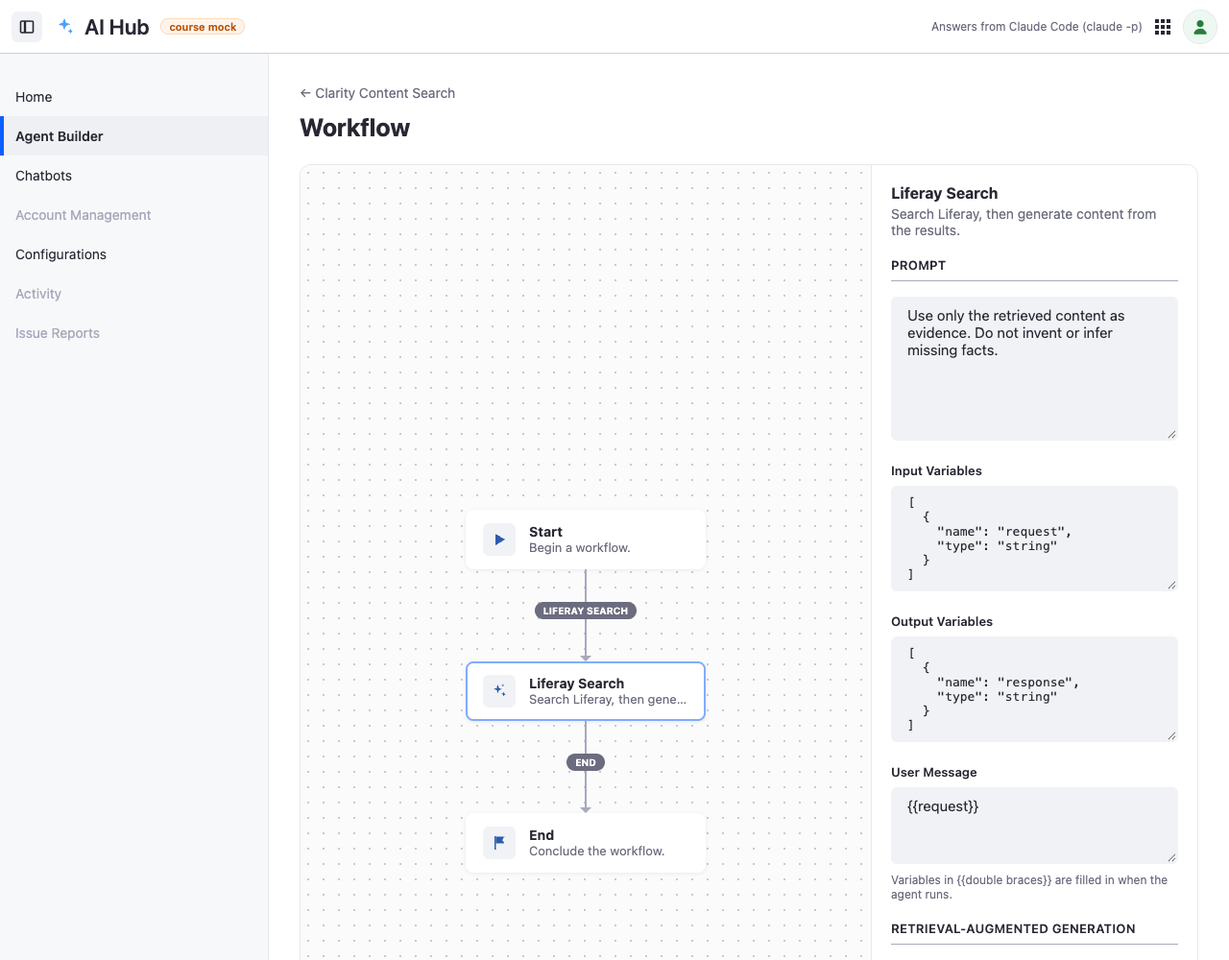
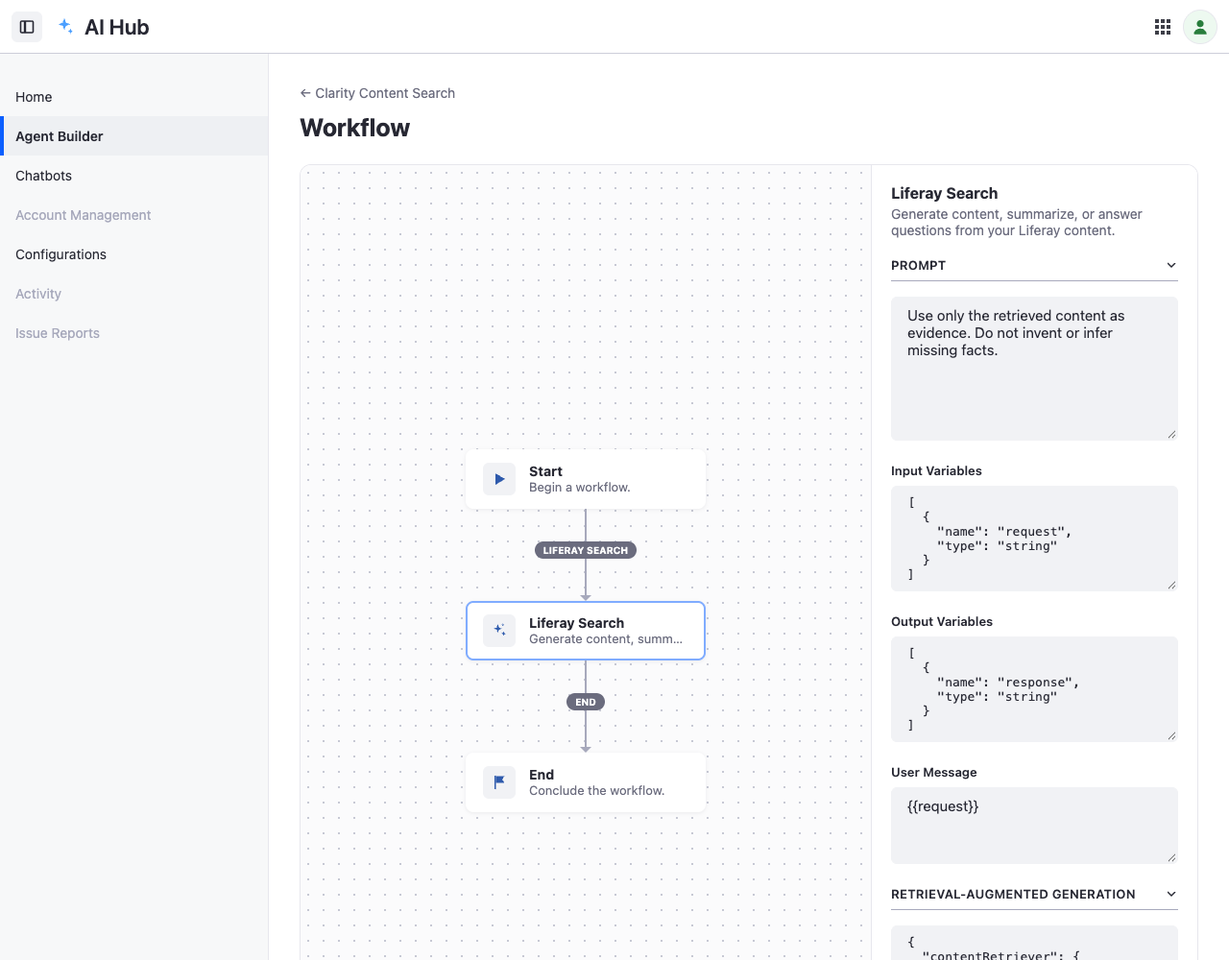
AI Hub mock: match AI Hub's screens
Following the masterclass's AI Hub screenshots: a language selector
beside translatable fields, a Data Sources card on agents, Avatar and
Notification Message on chatbots, a clear-all icon on Assigned Agents,
Transition Label edges and an empty RAG on LLM workflows, collapsible
panel sections, and API Credentials with Copy and Reveal. The header
loses the mock badge and CLI label. What the mock doesn't have is
greyed out; Add It to Your Site, Try It, and the Service URL, AI
provider and Test Connection (now a Course Mock card) are labelled
Course mock.

diff --git a/bonus/ai-hub/public/console.js b/bonus/ai-hub/public/console.js
@@ -10,17 +10,20 @@ const ICONS = {
 	end: '<svg width="16" height="16" viewBox="0 0 16 16" fill="currentColor"><path d="M3 1h1.5v14H3z"/><path d="M4.5 1.5h9l-2.5 3.5 2.5 3.5h-9z"/></svg>',
 	sparkle: '<svg width="18" height="18" viewBox="0 0 24 24" fill="currentColor"><path d="M10 3l1.6 4.6L16 9l-4.4 1.4L10 15l-1.6-4.6L4 9l4.4-1.4z"/><path d="M18 13l.9 2.1L21 16l-2.1.9L18 19l-.9-2.1L15 16l2.1-.9z"/><path d="M17 2l.6 1.4L19 4l-1.4.6L17 6l-.6-1.4L15 4l1.4-.6z"/></svg>',
 	start: '<svg width="16" height="16" viewBox="0 0 16 16" fill="currentColor"><path d="M4 2l10 6-10 6z"/></svg>',
+	clear: '<svg width="16" height="16" viewBox="0 0 16 16" fill="none" stroke="currentColor" stroke-width="1.4"><circle cx="8" cy="8" r="6.3"/><path d="M5.6 5.6l4.8 4.8M10.4 5.6l-4.8 4.8"/></svg>',
+	copy: '<svg width="14" height="14" viewBox="0 0 16 16" fill="none" stroke="currentColor" stroke-width="1.5"><rect x="3.5" y="3" width="9" height="11.5" rx="1.2"/><path d="M6 3V1.8h4V3"/></svg>',
+	chevron: '<svg width="14" height="14" viewBox="0 0 16 16" fill="none" stroke="currentColor" stroke-width="1.6"><path d="M3.5 6l4.5 4.5L12.5 6"/></svg>',
 	workflow: '<svg width="16" height="16" viewBox="0 0 16 16" fill="none" stroke="currentColor" stroke-width="1.5"><rect x="1" y="1.5" width="5" height="4" rx="1"/><rect x="10" y="10.5" width="5" height="4" rx="1"/><path d="M3.5 5.5v3a2 2 0 002 2h4.5"/></svg>',
 };
 
 const TYPES = {
 	answer: {
-		edges: ['LLM', 'END'], label: 'LLM agent', node: 'LLM', nodeHint: 'Generate content, summarize or answer.',
+		edges: ['TRANSITION LABEL', 'TRANSITION LABEL'], label: 'LLM agent', node: 'LLM', nodeHint: 'Generate content, summarize, or answer questions.',
 		rag: '[]',
 	},
 	search: {
 		edges: ['LIFERAY SEARCH', 'END'], label: 'Liferay Search agent', node: 'Liferay Search',
-		nodeHint: 'Search Liferay, then generate content from the results.',
+		nodeHint: 'Generate content, summarize, or answer questions from your Liferay content.',
 	},
 };
 
@@ -41,9 +44,6 @@ async function api(method, path, body) {
 
 async function load() {
 	state = await api('GET', '/api/state');
-	document.getElementById('provider').textContent = state.runtime.cli
-		? `Answers from ${state.runtime.cliLabel}`
-		: 'No agent CLI found: answers list the search results';
 }
 
 function go(hash, {replace} = {}) {
@@ -64,14 +64,26 @@ function flash(text, ok = true) {
 	}
 }
 
-const field = (id, label, value, {hint = '', readonly = false, required = false, textarea = false, code = false} = {}) => `
-	<div class="field">
+// The language selector AI Hub shows beside translatable fields. The mock is English only, so it's greyed out.
+const LOCALE = `<button type="button" class="locale" disabled title="Not in the course mock: English only"><span class="flag" aria-label="English (United States)"></span>
+	<svg width="10" height="14" viewBox="0 0 10 14" fill="currentColor"><path d="M5 1l4 5H1zM5 13L1 8h8z"/></svg></button>`;
+
+const field = (id, label, value, {disabled = false, hint = '', locale = false, placeholder, readonly = false, required = false, textarea = false, code = false} = {}) => {
+	const attrs = `id="${id}" placeholder="${esc(placeholder ?? (code ? '' : label))}" ${readonly ? 'readonly' : ''} ${disabled ? 'disabled' : ''}`;
+	const control = textarea
+		? `<textarea ${attrs} class="${code ? 'code' : ''}" ${code ? `rows="${String(value).split('\n').length}"` : ''}>${esc(value)}</textarea>`
+		: `<input type="text" ${attrs} value="${esc(value)}">`;
+
+	return `
+	<div class="field${disabled ? ' soon' : ''}"${disabled ? ' title="Not in the course mock"' : ''}>
 		<label for="${id}" class="${required ? 'req' : ''}">${label}</label>
-		${textarea
-			? `<textarea id="${id}" class="${code ? 'code' : ''}" ${code ? `rows="${String(value).split('\n').length}"` : ''} ${readonly ? 'readonly' : ''}>${esc(value)}</textarea>`
-			: `<input type="text" id="${id}" value="${esc(value)}" ${readonly ? 'readonly' : ''}>`}
+		${locale ? `<div class="with-locale">${control}${LOCALE}</div>` : control}
 		${hint ? `<span class="hint">${hint}</span>` : ''}
 	</div>`;
+};
+
+// A card that only the course mock has, marked so it isn't mistaken for AI Hub.
+const MOCK = '<span class="mock-pill" title="Not in Liferay AI Hub: added for the course">Course mock</span>';
 
 const toggle = (id, label, checked) =>
 	`<label class="switch"><input type="checkbox" id="${id}" ${checked ? 'checked' : ''}><span class="track"></span>${label}</label>`;
@@ -183,19 +195,23 @@ function agentEditor(erc, newType) {
 		<h1>${existing ? esc(agent.title) : `New ${type.label}`}</h1>
 		<div class="card">
 			<div class="card-head"><h2>Details</h2>${toggle('enabled', 'Enable Agent', agent.enabled)}</div>
-			${field('title', 'Title', agent.title, {required: true})}
-			${field('erc', 'External Reference Code', agent.erc, {hint: existing ? '' : 'Letters, digits, - and _. A chatbot\'s Assigned Agents refer to it.', readonly: Boolean(existing), required: true})}
-			${field('description', 'Description', agent.description, {hint: 'What the agent is for. In AI Hub, the chatbot reads it to decide when to call the agent.', required: true, textarea: true})}
+			${field('title', 'Title', agent.title, {locale: true, required: true})}
+			${field('erc', 'External Reference Code', agent.erc, {readonly: Boolean(existing), required: true})}
+			${field('description', 'Description', agent.description, {required: true, textarea: true})}
 		</div>
 		<div class="card">
 			<div class="card-head"><h2>Workflow</h2>
 				<button class="btn" id="editWorkflow" ${existing ? '' : 'disabled'}>${ICONS.workflow} Edit Workflow</button></div>
-			<p class="sub">Every agent runs its own workflow. Edit the workflow to define what this agent does when it runs.${existing ? '' : ' Save the agent first.'}</p>
+			<p class="sub">Every agent runs its own workflow. Edit the workflow to define what this agent does when it runs.</p>
 		</div>
 		<div class="card">
 			<h2 style="margin-bottom:20px">Variables</h2>
 			${field('inputVars', 'Input Variables', inputVariables(agent.type).join(','), {readonly: true, required: true})}
 			${field('outputVar', 'Output Variable', 'response', {readonly: true, required: true})}
+		</div>
+		<div class="card">
+			<h2 style="margin-bottom:20px">Data Sources</h2>
+			${field('sources', 'Assigned Sources', '', {disabled: true, placeholder: ''})}
 		</div>
 		<div class="row"><div class="actions"><button class="btn primary" id="save">Save</button><button class="btn" id="cancel">Cancel</button></div>
 			${existing ? '<button class="btn danger" id="delete">Delete</button>' : ''}</div>
@@ -279,20 +295,19 @@ function workflowEditor(erc) {
 			return;
 		}
 
-		const rag = agent.type === 'search' ? JSON.stringify({contentRetriever: agent.rag}, null, 2) : type.rag;
+		// As AI Hub writes it: the retriever's key first, and a blueprint only when there is one.
+		const retriever = agent.rag ? {key: agent.rag.key, ...(agent.rag.blueprintExternalReferenceCode ? {blueprintExternalReferenceCode: agent.rag.blueprintExternalReferenceCode} : {})} : null;
+		const rag = agent.type === 'search' ? JSON.stringify({contentRetriever: retriever}, null, 2) : type.rag;
 
 		panel.innerHTML = `
 			<p class="node-name">${type.node}</p><p class="sub" style="margin-bottom:20px">${type.nodeHint}</p>
-			<h4>Prompt</h4>
+			<h4>Prompt ${ICONS.chevron}</h4>
 			<div class="field"><textarea id="prompt" style="min-height:150px">${esc(agent.prompt)}</textarea></div>
 			${field('inVars', 'Input Variables', variablesJSON(inputVariables(agent.type)), {code: true, readonly: true, textarea: true})}
 			${field('outVars', 'Output Variables', variablesJSON(['response']), {code: true, readonly: true, textarea: true})}
-			${field('userMessage', 'User Message', agent.userMessage, {hint: 'Variables in {{double braces}} are filled in when the agent runs.', textarea: true})}
-			<h4>Retrieval-Augmented Generation</h4>
-			${field('rag', 'RAG Configuration', rag, {code: true, readonly: agent.type !== 'search', textarea: true,
-				hint: agent.type === 'search'
-					? '"key": "liferay" searches your Liferay as Guest. Set blueprintExternalReferenceCode to search through a Search Blueprint, or leave it empty.'
-					: 'An LLM agent retrieves nothing: it writes from its input variables.'})}
+			${field('userMessage', 'User Message', agent.userMessage, {placeholder: '', textarea: true})}
+			<h4>Retrieval-Augmented Generation ${ICONS.chevron}</h4>
+			<div class="field"><textarea id="rag" class="code" rows="${rag.split('\n').length}" ${agent.type === 'search' ? '' : 'readonly'} aria-label="Retrieval-Augmented Generation">${esc(rag)}</textarea></div>
 			<div class="actions"><button class="btn primary" id="saveNode">Save</button><button class="btn" id="cancelNode">Cancel</button></div>`;
 
 		document.getElementById('cancelNode').onclick = () => go(`agents/edit/${encodeURIComponent(agent.erc)}`);
@@ -357,26 +372,29 @@ function chatbotEditor(erc) {
 		<h1>${existing ? esc(bot.title) : 'New Chatbot'}</h1>
 		<div class="card">
 			<div class="card-head"><h2>Details</h2>${toggle('enabled', 'Enable Chatbot', bot.enabled)}</div>
-			${field('title', 'Title', bot.title, {required: true})}
-			${field('erc', 'External Reference Code', bot.erc, {hint: 'Write it down: your site\'s Click to Chat names the chatbot by it.', readonly: Boolean(existing), required: true})}
+			${field('title', 'Title', bot.title, {locale: true, required: true})}
+			${field('erc', 'External Reference Code', bot.erc, {readonly: Boolean(existing), required: true})}
 			${field('description', 'Description', bot.description || '', {textarea: true})}
+			<div class="field soon" title="Not in the course mock"><span class="label">Avatar</span><button type="button" class="btn" disabled>Select File</button>
+				<span class="hint">Upload a jpeg, jpg, png no larger than 500 KB.</span></div>
 			<div class="field"><span class="label">Assigned Agents</span><div class="chips" id="chips"></div></div>
-			${field('placeholder', 'Placeholder Message', bot.placeholderMessage || '', {hint: 'The hint in the visitor\'s empty message box, such as "Ask a question".'})}
-			${field('intro', 'Intro Message', bot.introMessage, {hint: 'The first message visitors see when they open the chat.', textarea: true})}
+			${field('notification', 'Notification Message', '', {disabled: true, locale: true})}
+			${field('placeholder', 'Placeholder Message', bot.placeholderMessage || '', {locale: true})}
+			${field('intro', 'Intro Message', bot.introMessage, {locale: true, textarea: true})}
 		</div>
 		<div class="row"><div class="actions"><button class="btn primary" id="save">Save</button><button class="btn" id="cancel">Cancel</button></div>
 			${existing ? '<button class="btn danger" id="delete">Delete</button>' : ''}</div>
 		<div id="msg"></div>
 		${existing ? `
 		<div class="card" style="margin-top:24px">
-			<h2 style="margin-bottom:8px">Add It to Your Site</h2>
+			<div class="card-head" style="margin-bottom:8px"><h2>Add It to Your Site</h2>${MOCK}</div>
 			<p class="sub" style="margin-bottom:16px">In Liferay, turn on <strong>Click to Chat</strong> for the site, with <strong>AI Hub</strong> as the chat provider and this chatbot's ERC as the account ID. Liferay finds AI Hub through its AI Hub configuration: the credentials and Service URL in <a href="#configurations">Configurations</a>.</p>
 			${field('ctcAccount', 'Chat Provider Account ID', bot.erc, {readonly: true})}
 			<span class="label">Or, without Click to Chat: Embed Snippet</span>
 			<pre class="snippet">&lt;script src="${esc(location.origin)}/widget.js" data-chatbot="${esc(bot.erc)}" defer&gt;&lt;/script&gt;</pre>
 		</div>
 		<div class="card" id="tryIt">
-			<h2 style="margin-bottom:8px">Try It</h2>
+			<div class="card-head" style="margin-bottom:8px"><h2>Try It</h2>${MOCK}</div>
 			<p class="sub" style="margin-bottom:16px">Ask a question here first. The run log shows each step a visitor's question goes through.</p>
 			<div class="play"><input type="text" id="question" placeholder="${esc(bot.placeholderMessage || 'Ask the chatbot a question')}"><button class="btn primary" id="ask">Ask</button></div>
 			<div id="result"></div>
@@ -389,9 +407,15 @@ function chatbotEditor(erc) {
 		const name = (e) => state.agents.find((a) => a.erc === e)?.title || e;
 		const free = state.agents.filter((a) => !assigned.includes(a.erc));
 
-		chips.innerHTML = assigned.map((e) => `<span class="chip">${esc(name(e))}<button type="button" data-remove="${esc(e)}" aria-label="Remove ${esc(name(e))}">×</button></span>`).join('') +
-			(free.length ? `<select id="addAgent" aria-label="Add an agent"><option value="">${assigned.length ? 'Add another agent…' : 'Select agents…'}</option>${free.map((a) =>
-				`<option value="${esc(a.erc)}">${esc(a.title)} (${TYPES[a.type].label}${a.enabled ? '' : ', disabled'})</option>`).join('')}</select>` : '');
+		chips.innerHTML = assigned.map((e) => `<span class="chip">${esc(name(e))}<button type="button" data-remove="${esc(e)}" aria-label="Remove ${esc(name(e))}">✕</button></span>`).join('') +
+			(free.length ? `<select id="addAgent" aria-label="Add an agent"><option value=""></option>${free.map((a) =>
+				`<option value="${esc(a.erc)}">${esc(a.title)}</option>`).join('')}</select>` : '<span class="chips-fill"></span>') +
+			(assigned.length ? `<button type="button" class="chips-clear" id="clearAgents" aria-label="Remove all agents">${ICONS.clear}</button>` : '');
+
+		document.getElementById('clearAgents')?.addEventListener('click', () => {
+			assigned = [];
+			renderChips();
+		});
 
 		chips.querySelectorAll('[data-remove]').forEach((b) => b.onclick = () => {
 			assigned = assigned.filter((e) => e !== b.dataset.remove);
@@ -483,25 +507,38 @@ function chatbotEditor(erc) {
 function configurations() {
 	main.innerHTML = `
 		<h1>Configurations</h1>
-		<div style="margin:0 auto;max-width:1160px;padding-top:24px">
+		<div class="config">
 			<h2 style="margin-bottom:20px">Account Configuration</h2>
-			${field('env', 'Environment URL', state.configuration.environmentURL, {
-				hint: 'Your Liferay\'s address. The real AI Hub is a cloud service and needs a public HTTPS URL here; this mock runs on your computer, so http://localhost:8080 works.'})}
-			<hr style="border:0;border-top:1px solid var(--border);margin:24px 0">
-			<h2 style="margin-bottom:8px">API Credentials</h2>
-			<p class="sub" style="margin-bottom:20px">Your Liferay's AI Hub configuration needs them (<em>Instance Settings</em> → <em>AI Hub</em>, or its configuration file). The mock doesn't check them: they're placeholders, never a secret.</p>
-			${field('clientId', 'Client ID', CREDENTIALS.clientId, {readonly: true})}
-			${field('clientSecret', 'Client Secret', CREDENTIALS.clientSecret, {readonly: true})}
-			${field('serviceURL', 'Service URL', location.origin, {readonly: true, hint: 'Liferay\'s Click to Chat loads the chat bubble from here.'})}
-			<hr style="border:0;border-top:1px solid var(--border);margin:24px 0">
-			<h2 style="margin-bottom:20px">AI Provider</h2>
-			${field('provider', 'Answers From', state.runtime.cli ? state.runtime.cliLabel : 'None found: answers list the search results only', {readonly: true,
-				hint: 'In AI Hub, the models run in Liferay\'s cloud. In the mock, your own AI agent writes the answers, run in an empty folder. To choose another, restart the mock with AI_CLI=claude, codex, copilot, gemini or none.'})}
-			<div class="row"><div class="actions"><button class="btn primary" id="save">Save</button><button class="btn" id="cancel">Cancel</button></div>
-				<button class="btn" id="test" style="margin-top:24px">Test Connection</button></div>
+			${field('env', 'Environment URL', state.configuration.environmentURL)}
+			<hr>
+			<h2 style="margin-bottom:20px">API Credentials</h2>
+			<div class="field"><label for="clientId">Client ID</label>
+				<div class="with-locale"><input type="text" id="clientId" value="${esc(CREDENTIALS.clientId)}" readonly>
+				<button type="button" class="square" id="copyId" title="Copy" aria-label="Copy the Client ID">${ICONS.copy}</button></div></div>
+			<div class="field"><label for="clientSecret">Client Secret</label>
+				<div class="with-locale"><input type="password" id="clientSecret" value="${esc(CREDENTIALS.clientSecret)}" readonly>
+				<button type="button" class="btn" id="reveal">Reveal</button></div>
+				<span class="hint">Shown only when you choose to reveal it.</span></div>
+			<div class="actions"><button class="btn primary" id="save">Save</button><button class="btn" id="cancel">Cancel</button></div>
 			<div id="msg"></div>
+			<div class="card mock-card">
+				<div class="card-head"><h2>Course Mock</h2></div>
+				<p class="sub" style="margin-bottom:20px">Not in Liferay AI Hub. The mock runs on your computer, so <em>Environment URL</em> can be <code>http://localhost:8080</code>. The Client ID and Secret are placeholders that nothing checks.</p>
+				${field('serviceURL', 'Service URL', location.origin, {readonly: true, hint: 'Liferay\'s AI Hub configuration points here; Click to Chat loads the chat bubble from it.'})}
+				${field('provider', 'Answers From', state.runtime.cli ? state.runtime.cliLabel : 'None found: answers list the search results only', {readonly: true,
+					hint: 'In AI Hub, the models run in Liferay\'s cloud. In the mock, your own AI agent writes the answers, in an empty folder. To choose another, restart the mock with AI_CLI=claude, codex, copilot, gemini or none.'})}
+				<button class="btn" id="test">Test Connection</button>
+				<div id="testMsg"></div>
+			</div>
 		</div>`;
 
+	document.getElementById('copyId').onclick = () => navigator.clipboard?.writeText(CREDENTIALS.clientId);
+	document.getElementById('reveal').onclick = (event) => {
+		const secret = document.getElementById('clientSecret');
+
+		secret.type = secret.type === 'password' ? 'text' : 'password';
+		event.target.textContent = secret.type === 'password' ? 'Reveal' : 'Hide';
+	};
 	document.getElementById('cancel').onclick = () => route();
 	document.getElementById('save').onclick = async () => {
 		try {
@@ -514,11 +551,13 @@ function configurations() {
 		}
 	};
 	document.getElementById('test').onclick = async () => {
+		const out = document.getElementById('testMsg');
+
 		try {
-			flash((await api('POST', '/api/test-connection', {environmentURL: val('env').trim()})).message);
+			out.innerHTML = `<div class="msg ok">${esc((await api('POST', '/api/test-connection', {environmentURL: val('env').trim()})).message)}</div>`;
 		}
 		catch (error) {
-			flash(error.message, false);
+			out.innerHTML = `<div class="msg err">${esc(error.message)}</div>`;
 		}
 	};
 }

diff --git a/bonus/ai-hub/public/console.css b/bonus/ai-hub/public/console.css
@@ -29,8 +29,7 @@ svg { display: block; }
 .icon-btn { align-items: center; background: var(--field); border: 0; border-radius: 6px; color: var(--text); display: flex; height: 32px; justify-content: center; width: 32px; }
 .brand { align-items: center; display: flex; font-size: 22px; font-weight: 600; gap: 10px; }
 .sparkle { color: #4b9fff; }
-.mock { background: #fff4ec; border: 1px solid #ffd8b5; border-radius: 10px; color: #b95000; font-size: 11px; font-weight: 600; padding: 1px 8px; }
-.provider { color: var(--muted); font-size: 12px; }
+.apps { color: var(--text); cursor: default; opacity: .9; }
 .avatar { align-items: center; background: #edf9f0; border: 1px solid var(--border); border-radius: 50%; color: var(--success); display: flex; height: 36px; justify-content: center; width: 36px; }
 
 /* Sidebar */
@@ -130,3 +129,32 @@ pre.snippet { background: #1c1c24; border-radius: 6px; color: #e6e6ef; margin: 0
 .home-steps .card { margin: 0; }
 .home-steps .num { color: var(--primary); font-size: 13px; font-weight: 700; }
 .foot { color: var(--muted); font-size: 12px; margin-top: 32px; text-align: center; }
+
+/* Language selector beside translatable fields, copy and reveal buttons (AI Hub's layout) */
+.with-locale { align-items: stretch; display: flex; gap: 8px; }
+.with-locale > input, .with-locale > textarea { flex: 1; min-width: 0; }
+.locale, .square { align-items: center; align-self: flex-start; height: 40px; background: #fff; border: 1px solid #6b6c7e; border-radius: 6px; color: var(--muted); display: inline-flex; flex: 0 0 auto; gap: 10px; justify-content: center; padding: 0 14px; }
+.square { color: var(--text); cursor: pointer; width: 40px; padding: 0; }
+.locale:disabled { cursor: default; }
+.flag { background: linear-gradient(#b22234 0 14%, #fff 14% 28%, #b22234 28% 42%, #fff 42% 57%, #b22234 57% 71%, #fff 71% 85%, #b22234 85%); border-radius: 1px; display: inline-block; height: 11px; position: relative; width: 16px; }
+.flag::before { background: #3c3b6e; content: ""; height: 6px; left: 0; position: absolute; top: 0; width: 7px; }
+input[type=password] { background: #fff; border: 1px solid var(--border); border-radius: 6px; font: inherit; font-size: 15px; letter-spacing: .1em; padding: 9px 16px; width: 100%; }
+input[type=text]:read-only#clientId { background: #fff; border-color: var(--border); color: var(--text); }
+
+/* Greyed out: in AI Hub, not in the mock */
+.field.soon label, .field.soon .label, .field.soon .hint { color: #a7a9bc; }
+.field.soon input, .field.soon textarea, .field.soon .btn { cursor: default; opacity: .55; }
+
+/* Assigned Agents: the chips field ends with a clear-all icon */
+.chips-fill { flex: 1; }
+.chips-clear { background: none; border: 0; color: var(--muted); cursor: pointer; display: flex; margin-left: auto; padding: 4px; }
+.chip button { font-size: 12px; }
+
+/* Workflow panel section heads have a chevron, as in AI Hub */
+.panel h4 { align-items: center; display: flex; justify-content: space-between; }
+
+/* Configurations: a centered column, then the mock-only card */
+.config { margin: 0 auto; max-width: 1160px; padding-top: 24px; }
+.config hr { border: 0; border-top: 1px solid var(--border); margin: 24px 0; }
+.mock-card { background: #fffaf5; border-color: #ffd8b5; margin-top: 48px; }
+.mock-pill { background: #fff4ec; border: 1px solid #ffd8b5; border-radius: 10px; color: #b95000; font-size: 11px; font-weight: 600; padding: 1px 8px; white-space: nowrap; }

diff --git a/docs/workbook/level-14.html b/docs/workbook/level-14.html
@@ -339,7 +339,7 @@ em { color: inherit; }
 <p>It prints which AI agent will write the answers, for example <code>Answers from: Claude Code (claude -p)</code>. It looks for <code>claude</code>, <code>codex</code>, <code>copilot</code> and <code>gemini</code>, in that order. To choose one, start it with <code>AI_CLI=codex node bonus/ai-hub/server.mjs</code> (on Windows PowerShell: <code>$env:AI_CLI="codex"; node bonus/ai-hub/server.mjs</code>).</p>
 </li>
 <li>
-<p>Open <code>http://localhost:3010</code> in your browser: the <strong>AI Hub</strong> console, with <em>Agent Builder</em>, <em>Chatbots</em> and <em>Configurations</em>. Keep it open: in the next exercises your agent sets AI Hub up through the console's API, and you check each step on these screens.</p>
+<p>Open <code>http://localhost:3010</code> in your browser: the <strong>AI Hub</strong> console, with <em>Agent Builder</em>, <em>Chatbots</em> and <em>Configurations</em>. Its screens copy AI Hub's; what the mock doesn't have (<em>Account Management</em>, an agent's <em>Data Sources</em>, a chatbot's <em>Avatar</em>, other languages) is greyed out, and the cards only the mock has are marked <strong>Course mock</strong>. Keep it open: in the next exercises your agent sets AI Hub up through the console's API, and you check each step on these screens.</p>
 </li>
 </ol>
 <h2 id="142-connect-the-mock-and-let-anonymous-visitors-search">14.2 — Connect the mock, and let anonymous visitors search<a aria-hidden="true" class="heading-anchor" href="#142-connect-the-mock-and-let-anonymous-visitors-search" tabindex="-1">#</a></h2>
@@ -364,7 +364,7 @@ titles.
 <p>Then tell the agent it's done.</p>
 <p class="wb wb-verify-label">✅ <strong>Verify</strong> (look, don't change anything):</p>
 <ol class="wb-list wb-verify">
-<li>In the mock's <strong>Configurations</strong>, <em>Environment URL</em> is your Liferay (<code>http://localhost:8080</code>). Click <strong>Test Connection</strong>: <em>Liferay answered a search as Guest: … → 200</em>.</li>
+<li>In the mock's <strong>Configurations</strong>, <em>Environment URL</em> is your Liferay (<code>http://localhost:8080</code>). In the <strong>Course Mock</strong> card below it, click <strong>Test Connection</strong>: <em>Liferay answered a search as Guest: … → 200</em>.</li>
 <li>In a private window, open <code>http://localhost:8080/o/search/v1.0/search?search=return%20policy</code>: JSON with Clarity's FAQ entries about returns.</li>
 </ol>
 <p class="wb wb-why">📖 <strong>Why it matters:</strong> two gates protect your content from an API call. The Service Access Policy decides whether the API method can be reached at all; then permissions decide which results come back. This policy opens only the first gate, for one read method: the search still runs as Guest, so it returns only what Guest may view (your public FAQs, products and articles), never a persona's or the admin's content. A public chatbot is only as public as its content's permissions. The real AI Hub is a cloud service: it needs a public HTTPS URL for your Liferay, and signs in with an OAuth client. The mock runs next to your Liferay, so <code>localhost</code> works.</p>

diff --git a/bonus/ai-hub/public/console.html b/bonus/ai-hub/public/console.html
@@ -11,11 +11,9 @@
 		<div class="top-left">
 			<span class="icon-btn" aria-hidden="true"><svg width="16" height="16" viewBox="0 0 16 16" fill="none" stroke="currentColor" stroke-width="1.6"><rect x="1.5" y="2" width="13" height="12" rx="1.5"/><path d="M6 2v12" stroke-width="2.4"/></svg></span>
 			<span class="brand"><svg class="sparkle" width="22" height="22" viewBox="0 0 24 24" fill="currentColor"><path d="M12 2l1.8 5.2L19 9l-5.2 1.8L12 16l-1.8-5.2L5 9l5.2-1.8z"/><path d="M19 14l.9 2.1L22 17l-2.1.9L19 20l-.9-2.1L16 17l2.1-.9z"/></svg>AI Hub</span>
-			<span class="mock" title="A lightweight stand-in for Liferay AI Hub, for the BEWL with AI course">course mock</span>
 		</div>
 		<div class="top-right">
-			<span class="provider" id="provider"></span>
-			<span aria-hidden="true"><svg width="18" height="18" viewBox="0 0 18 18" fill="currentColor"><g><rect x="1" y="1" width="4" height="4"/><rect x="7" y="1" width="4" height="4"/><rect x="13" y="1" width="4" height="4"/><rect x="1" y="7" width="4" height="4"/><rect x="7" y="7" width="4" height="4"/><rect x="13" y="7" width="4" height="4"/><rect x="1" y="13" width="4" height="4"/><rect x="7" y="13" width="4" height="4"/><rect x="13" y="13" width="4" height="4"/></g></svg></span>
+			<span class="apps" title="Not in the course mock" aria-hidden="true"><svg width="18" height="18" viewBox="0 0 18 18" fill="currentColor"><g><rect x="1" y="1" width="4" height="4"/><rect x="7" y="1" width="4" height="4"/><rect x="13" y="1" width="4" height="4"/><rect x="1" y="7" width="4" height="4"/><rect x="7" y="7" width="4" height="4"/><rect x="13" y="7" width="4" height="4"/><rect x="1" y="13" width="4" height="4"/><rect x="7" y="13" width="4" height="4"/><rect x="13" y="13" width="4" height="4"/></g></svg></span>
 			<span class="avatar" aria-hidden="true"><svg width="18" height="18" viewBox="0 0 16 16" fill="currentColor"><circle cx="8" cy="5" r="3.2"/><path d="M2 15c0-3.3 2.7-5.5 6-5.5s6 2.2 6 5.5z"/></svg></span>
 		</div>
 	</header>

diff --git a/docs-src/workbook/14-bonus-ai-chatbot.md b/docs-src/workbook/14-bonus-ai-chatbot.md
@@ -25,7 +25,7 @@
    node bonus/ai-hub/server.mjs
    ```
    It prints which AI agent will write the answers, for example `Answers from: Claude Code (claude -p)`. It looks for `claude`, `codex`, `copilot` and `gemini`, in that order. To choose one, start it with `AI_CLI=codex node bonus/ai-hub/server.mjs` (on Windows PowerShell: `$env:AI_CLI="codex"; node bonus/ai-hub/server.mjs`).
-2. Open `http://localhost:3010` in your browser: the **AI Hub** console, with *Agent Builder*, *Chatbots* and *Configurations*. Keep it open: in the next exercises your agent sets AI Hub up through the console's API, and you check each step on these screens.
+2. Open `http://localhost:3010` in your browser: the **AI Hub** console, with *Agent Builder*, *Chatbots* and *Configurations*. Its screens copy AI Hub's; what the mock doesn't have (*Account Management*, an agent's *Data Sources*, a chatbot's *Avatar*, other languages) is greyed out, and the cards only the mock has are marked **Course mock**. Keep it open: in the next exercises your agent sets AI Hub up through the console's API, and you check each step on these screens.
 
 ### 14.2 — Connect the mock, and let anonymous visitors search
 
@@ -53,7 +53,7 @@ The first test fails with a **403**: Liferay's Service Access Policy keeps the s
 Then tell the agent it's done.
 
 ✅ **Verify** (look, don't change anything):
-1. In the mock's **Configurations**, *Environment URL* is your Liferay (`http://localhost:8080`). Click **Test Connection**: *Liferay answered a search as Guest: … → 200*.
+1. In the mock's **Configurations**, *Environment URL* is your Liferay (`http://localhost:8080`). In the **Course Mock** card below it, click **Test Connection**: *Liferay answered a search as Guest: … → 200*.
 2. In a private window, open `http://localhost:8080/o/search/v1.0/search?search=return%20policy`: JSON with Clarity's FAQ entries about returns.
 
 📖 **Why it matters:** two gates protect your content from an API call. The Service Access Policy decides whether the API method can be reached at all; then permissions decide which results come back. This policy opens only the first gate, for one read method: the search still runs as Guest, so it returns only what Guest may view (your public FAQs, products and articles), never a persona's or the admin's content. A public chatbot is only as public as its content's permissions. The real AI Hub is a cloud service: it needs a public HTTPS URL for your Liferay, and signs in with an OAuth client. The mock runs next to your Liferay, so `localhost` works.

diff --git a/bonus/ai-hub/README.md b/bonus/ai-hub/README.md
@@ -2,6 +2,8 @@
 
 A lightweight stand-in for **Liferay AI Hub**, for the bonus Level 14 of the workbook. It lets you set up a website chatbot the way AI Hub does (agents, then a chatbot, then Liferay's *Click to Chat* on your site) without access to AI Hub, and it really answers: with your Liferay's content and **the AI agent you already use** in the course.
 
+The console copies AI Hub's screens, as the masterclass's Energy Advisor exercise shows them. Features the mock doesn't have are greyed out, and the cards that only the mock has (*Add It to Your Site*, *Try It*, and *Course Mock* in Configurations) carry a **Course mock** label.
+
 It isn't AI Hub, and isn't meant for production: it's one Node.js file and a few static pages, for learning the shape of the setup.
 
 ## Run it
